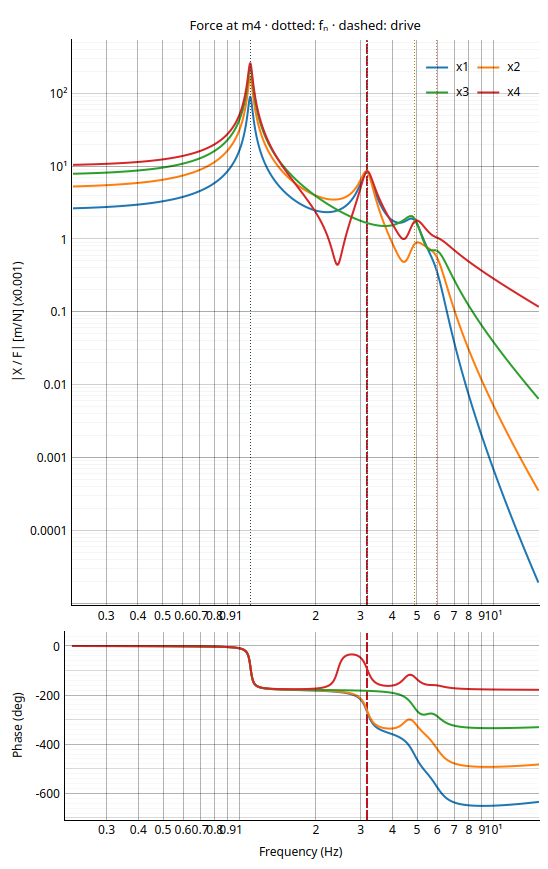
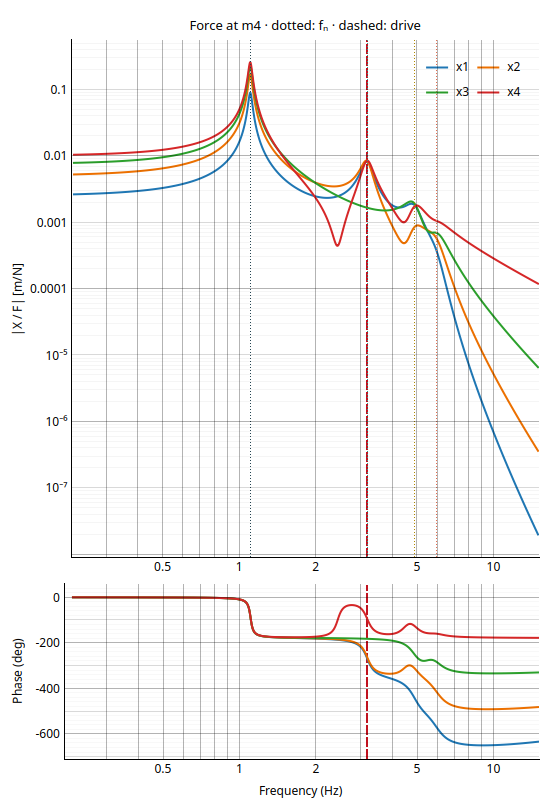
Readable log axes everywhere; README: drive-point FRF, modal_coupling module, fresh screenshots
- gui/axes.py: LogAxis labels every log tick only when they fit, else 1-2-5
  per decade, else only the decades, from the pixels per decade at each
  redraw (so zooming stays readable). It drops the minor ticks that repeat a
  decade (drawn twice they looked bold), and turns off the automatic SI
  prefix that scaled log labels and appended a misleading "(x0.001)".
- Used by the Simulation FRF, CMS FRF and error plots, both Modal coupling
  plots and the virtual test's magnitude. The veering plot's hard-coded ticks
  are gone.
- README: the Drive-point FRF tab, core/modal_coupling.py in the code layout
  and a scripting example; frequency_response.png and modal_coupling.png
  retaken.

Claude-Session: https://claude.ai/code/session_017R5NSXURS9H71mvfW1Frcg

diff --git a/src/vib_tutorial/gui/axes.py b/src/vib_tutorial/gui/axes.py
@@ -1,0 +1,80 @@
+"""A log axis whose labels do not run into each other.
+
+pyqtgraph labels every minor tick (2, 3, ... 9 x 10^e) on a log axis spanning
+less than about three decades, so on a narrow plot they overlap ("0.60.70.8").
+LogAxis draws every tick but labels all of them only when they fit, else 1,
+2 and 5 of each decade, else only the decades, chosen from the pixels per
+decade at each redraw (so it stays readable while zooming). It also turns off pyqtgraph's automatic
+SI prefix in log mode, which scales the labels and appends a confusing
+"(x0.001)" to the axis title.
+"""
+
+from __future__ import annotations
+
+import math
+
+import pyqtgraph as pg
+from PySide6 import QtGui
+
+# Labelled mantissas, the first set that fits: every tick, then 1, 2 and 5, then only the decades.
+TIERS = (tuple(range(1, 10)), (1, 2, 5), (1,))
+SUPERSCRIPT = str.maketrans("-0123456789", "⁻⁰¹²³⁴⁵⁶⁷⁸⁹")
+
+
+def log_label(value: float) -> str:
+    """0.0001 ... 9999 as plain numbers; smaller or larger as m·10ⁿ."""
+    e = math.floor(math.log10(value) + 1e-9)
+    if -4 <= e <= 3:
+        return f"{value:.4g}"
+    m = round(value / 10.0**e)
+    if m == 10:
+        m, e = 1, e + 1
+    power = f"10{str(e).translate(SUPERSCRIPT)}"
+    return power if m == 1 else f"{m}·{power}"
+
+
+class LogAxis(pg.AxisItem):
+    """An AxisItem that behaves as usual in linear mode and labels sparsely in log mode."""
+
+    def __init__(self, orientation: str, **kwargs) -> None:
+        super().__init__(orientation, **kwargs)
+        self._px_per_decade = math.inf
+
+    def setLogMode(self, *args, **kwargs) -> None:  # noqa: N802 (Qt-style override)
+        super().setLogMode(*args, **kwargs)
+        self.enableAutoSIPrefix(not self.logMode)
+
+    def logTickValues(self, minVal, maxVal, size, stdTicks):  # noqa: N802, N803 (pyqtgraph API)
+        span = maxVal - minVal
+        self._px_per_decade = size / span if span > 0 else math.inf
+        levels = super().logTickValues(minVal, maxVal, size, stdTicks)
+        # The minor level repeats the decades of the major levels: drawn twice, their labels look bold.
+        major = {round(v, 9) for spacing, values in levels if spacing is not None for v in values}
+        return [(spacing, values if spacing is not None else [v for v in values if round(v, 9) not in major])
+                for spacing, values in levels]
+
+    def logTickStrings(self, values, scale, spacing):  # noqa: N802 (pyqtgraph API)
+        labelled = next((t for t in TIERS if self._room_for(t)), (1,))
+        out = []
+        for x in values:
+            v = 10.0**x * scale
+            e = math.floor(x + 1e-9)
+            m = round(10.0 ** (x - e))
+            out.append(log_label(v) if m in labelled or m == 10 else "")
+        return out
+
+    def _room_for(self, mantissas: tuple[int, ...]) -> bool:
+        """Whether labels at these mantissas fit: the closest pair is log10(2) (or 10/5) apart."""
+        font = self.style.get("tickFont") or QtGui.QFont()
+        metrics = QtGui.QFontMetrics(font)
+        if self.orientation in ("left", "right"):
+            need = 1.6 * metrics.height()
+        else:
+            need = metrics.horizontalAdvance("0.005") + 10
+        gap = min(math.log10(b / a) for a, b in zip(mantissas, (*mantissas[1:], 10)))
+        return gap * self._px_per_decade >= need
+
+
+def log_axes() -> dict[str, LogAxis]:
+    """Left and bottom axes for a plot with a log axis: pass as axisItems to addPlot or PlotWidget."""
+    return {"left": LogAxis("left"), "bottom": LogAxis("bottom")}

diff --git a/src/vib_tutorial/gui/modal_coupling.py b/src/vib_tutorial/gui/modal_coupling.py
@@ -35,8 +35,8 @@ from ..core.modal_coupling import (
     sweep,
 )
 from .animation import MASS_WIDTH, spring_path
+from .axes import log_axes
 from .coupling_notes import THEORY_HTML, matrices_html
-from .frf_matrix import log_ticks
 from .style import MAX_DOF, colors, text_on
 from .substructuring import error_color, zeta_text
 from .theming import mute
@@ -289,7 +289,7 @@ class VeeringPlot(QtWidgets.QWidget):
         top.addWidget(label)
         top.addWidget(self.kind)
         top.addStretch(1)
-        self.plot = pg.PlotWidget()
+        self.plot = pg.PlotWidget(axisItems=log_axes())
         self.plot.setLogMode(x=True, y=True)
         self.plot.showGrid(x=True, y=True, alpha=0.3)
         self.plot.setLabel("left", "Natural frequency", units="Hz")
@@ -345,7 +345,6 @@ class VeeringPlot(QtWidgets.QWidget):
         bottom = max(min(s.two_dof.min(), s.f_a.min()), 1e-9) / 1.4
         self.plot.setYRange(math.log10(bottom), math.log10(top), padding=0)
         self.plot.setXRange(math.log10(s.x[0]), math.log10(s.x[-1]), padding=0)
-        self.plot.getAxis("bottom").setTicks(log_ticks(s.x[0], s.x[-1], (1, 2, 5)))
         if kind == "frequency":
             self.plot.setLabel("bottom", "f_B / f_A (B's springs scaled)")
             self.plot.setTitle(f"μ = {model.mass_ratio:.3g} fixed", size="10pt")
@@ -457,7 +456,7 @@ class DrivePointFrf(QtWidgets.QWidget):
         top.addWidget(label)
         top.addWidget(self.point)
         top.addStretch(1)
-        self.plot = pg.PlotWidget()
+        self.plot = pg.PlotWidget(axisItems=log_axes())
         self.plot.setLogMode(x=True, y=True)
         self.plot.showGrid(x=True, y=True, alpha=0.3)
         self.plot.setLabel("left", "|X / F|  [m/N]")

diff --git a/src/vib_tutorial/gui/substructuring.py b/src/vib_tutorial/gui/substructuring.py
@@ -35,6 +35,7 @@ from ..core import (
 )
 from ..core.substructure import METHOD_SHORT, SUBSTRUCTURE_NAMES
 from .animation import MASS_WIDTH, spring_path
+from .axes import log_axes
 from .cms_notes import THEORY_HTML, matrices_html
 from .cms_recovery import BackExpansionView
 from .cms_time import CMSTimeView
@@ -334,7 +335,7 @@ class ComparisonPlots(pg.GraphicsLayoutWidget):
         self.shape.setYRange(-1.15, 1.5, padding=0)
         self.shape.getAxis("left").setTicks([[(v, f"{v:g}") for v in (-1, -0.5, 0, 0.5, 1)]])
         self.shape_legend = self.shape.addLegend(offset=(5, 2), colCount=3)
-        self.frf = self.addPlot(row=1, col=0)
+        self.frf = self.addPlot(row=1, col=0, axisItems=log_axes())
         self.frf.setLogMode(x=True, y=True)
         self.frf.setLabel("left", "|X / F|  [m/N]")
         self.frf.setLabel("bottom", "Frequency", units="Hz")
@@ -613,7 +614,7 @@ class MethodComparison(QtWidgets.QWidget):
         self.table.setEditTriggers(QtWidgets.QAbstractItemView.EditTrigger.NoEditTriggers)
         self.table.setSelectionMode(QtWidgets.QAbstractItemView.SelectionMode.NoSelection)
         self.table.horizontalHeader().setSectionResizeMode(QtWidgets.QHeaderView.ResizeMode.Stretch)
-        self.plot = pg.PlotWidget()
+        self.plot = pg.PlotWidget(axisItems=log_axes())
         self.plot.setLogMode(y=True)
         self.plot.showGrid(x=True, y=True, alpha=0.3)
         self.plot.setLabel("bottom", "Reduced-model coordinates (modes kept + boundary DOFs)")

diff --git a/tests/test_gui_smoke.py b/tests/test_gui_smoke.py
@@ -1199,3 +1199,30 @@ def test_modal_coupling_page(app):
     assert page.model is not None
     w.pages.setCurrentWidget(w.sim_page)
     w.close()
+
+
+def test_log_axis_labels(app):
+    import math
+
+    from vib_tutorial.gui.axes import LogAxis, log_label
+
+    assert [log_label(v) for v in (1e-5, 3e-5, 1e-4, 0.05, 1.0, 20.0, 1000.0, 1e4, 2e6)] == [
+        "10⁻⁵", "3·10⁻⁵", "0.0001", "0.05", "1", "20", "1000", "10⁴", "2·10⁶"]
+    values = [math.log10(m * 0.1) for m in range(1, 10)] + [0.0]
+    for orientation in ("left", "bottom"):
+        axis = LogAxis(orientation)
+        axis.setLogMode(True)
+        assert not axis.autoSIPrefix
+        labelled = {}
+        for px in (2000.0, 250.0, 20.0):  # pixels per decade: room for all, for 1-2-5, for the decades only
+            axis._px_per_decade = px
+            labelled[px] = [s for s in axis.logTickStrings(values, 1.0, None) if s]
+        assert labelled[2000.0] == ["0.1", "0.2", "0.3", "0.4", "0.5", "0.6", "0.7", "0.8", "0.9", "1"]
+        assert labelled[250.0] == ["0.1", "0.2", "0.5", "1"]
+        assert labelled[20.0] == ["0.1", "1"]
+    # The minor level does not repeat the decades of a major level.
+    axis = LogAxis("left")
+    axis.setLogMode(True)
+    levels = axis.logTickValues(-2.2, 0.3, 300, [(1.0, [-2.0, -1.0, 0.0])])
+    minor = next(v for s, v in levels if s is None)
+    assert not {round(v, 9) for v in minor} & {-2.0, -1.0, 0.0}

diff --git a/src/vib_tutorial/gui/plots.py b/src/vib_tutorial/gui/plots.py
@@ -9,6 +9,7 @@ import pyqtgraph as pg
 from PySide6 import QtCore, QtGui, QtWidgets
 
 from ..core import ChainSystem, ModalResult, frf, modal_analysis, transmissibility
+from .axes import log_axes
 from .modes import Method, ModeEntry, time_constant_text
 from .style import colors
 
@@ -450,12 +451,12 @@ class FrfPlot(pg.GraphicsLayoutWidget):
 
     def __init__(self, parent: QtWidgets.QWidget | None = None) -> None:
         super().__init__(parent)
-        self.mag = self.addPlot(row=0, col=0)
+        self.mag = self.addPlot(row=0, col=0, axisItems=log_axes())
         self.mag.setLogMode(x=True, y=True)
         self.mag.setLabel("left", "|X / F|  [m/N]")
         self.mag.showGrid(x=True, y=True, alpha=0.3)
         self.mag.addLegend(offset=(-5, 5), colCount=2)
-        self.phase = self.addPlot(row=1, col=0)
+        self.phase = self.addPlot(row=1, col=0, axisItems=log_axes())
         self.phase.setLogMode(x=True, y=False)
         self.phase.setLabel("left", "Phase", units="deg")
         self.phase.setLabel("bottom", "Frequency", units="Hz")

diff --git a/src/vib_tutorial/gui/modal_test.py b/src/vib_tutorial/gui/modal_test.py
@@ -47,6 +47,7 @@ from ..core.identification import (
     peak_picking,
 )
 from ..core.measurement import AA_CUTOFF
+from .axes import log_axes
 from .modal_extraction import EXTRACTION_THEORY_HTML, ExtractionControls, ResultsView, StabilizationPlot
 from .panels import spin
 from .style import MAX_DOF, colors
@@ -237,10 +238,9 @@ class FrfView(pg.GraphicsLayoutWidget):
 
     def __init__(self, parent: QtWidgets.QWidget | None = None) -> None:
         super().__init__(parent)
-        self.mag = self.addPlot(row=0, col=0)
+        self.mag = self.addPlot(row=0, col=0, axisItems=log_axes())
         self.mag.setLogMode(x=False, y=True)
         self.mag.setLabel("left", "|H|  [m/N]")
-        self.mag.getAxis("left").enableAutoSIPrefix(False)
         self.mag.addLegend(offset=(-5, 5))
         self.phase = self.addPlot(row=1, col=0)
         self.phase.setLabel("left", "Phase", units="deg")

diff --git a/README.md b/README.md
@@ -371,9 +371,11 @@ The oscillator masses are the masses the joint feels:
 
 With these choices the 2-DOF model is a Rayleigh–Ritz model of the chain (B's part is
 Craig–Bampton with one mode kept), so its two frequencies are upper bounds of the chain's lowest
-two. The page compares them with the chain's (frequency, exact damping ratio, MAC), draws the
-2-DOF modes on the chain, and compares the receptance at the interface. Any mode of A can be
-coupled with any mode of B. *Matrices (step by step)* works both masses through with the current
+two. The page compares them with the chain's (frequency, exact damping ratio, MAC) and draws the
+2-DOF modes on the chain. Any mode of A can be coupled with any mode of B. The *Drive-point FRF*
+tab compares the receptance of the chain and of the 2-DOF model at the interface (A's tip) or at
+the free end (B's tip, where a force is usually applied), with A alone (B removed) and B alone
+(A removed, its base on the ground) for reference. *Matrices (step by step)* works both masses through with the current
 numbers: the generalized mass and mass normalization (why 1/φ<sub>tip</sub>² is a mass), the
 influence vector **r** solved from a unit base motion, each mode projected on how the joint loads it
 (a point load **e**<sub>tip</sub> on A, the inertia M**r** on B), the 2-DOF matrices, and the
@@ -540,6 +542,9 @@ $w_k^T W w_k$, so the energy balance closes to rounding error.
   modes (MAC).
 - `core/substructure.py`: component mode synthesis (Craig–Bampton, Rubin, MacNeal), mode
   comparison (frequency error, MAC) and the reduced-model FRF.
+- `core/modal_coupling.py`: two subsystems reduced to one oscillator each and joined as a 2-DOF
+  model (effective, residual and tip modal masses), its comparison with the chain, the
+  drive-point FRFs, and the frequency and mass-ratio sweeps.
 - `core/cms_response.py`: the full chain and a reduced model stepped side by side under the
   same force (MacNeal's massless boundary condensed statically).
 - `core/back_expansion.py`: recovery of the interior DOFs from the coupled solution (by T,
@@ -548,7 +553,8 @@ $w_k^T W w_k$, so the energy balance closes to rounding error.
 - `gui/`: the PySide6 and pyqtgraph interface. It runs on a ~60 fps timer that advances
   the simulator by wall-clock time × speed. `gui/style.py` holds the colour themes; every
   widget reads its colours from the current one (`colors.mass[i]`, `colors.force`) and
-  redraws in a new one through its `apply_theme()`.
+  redraws in a new one through its `apply_theme()`. Log axes use `gui/axes.py`, which labels
+  only as many ticks as fit.
 
 The `core` package has no Qt dependency, so you can use it from scripts or notebooks:
 
@@ -598,6 +604,14 @@ from vib_tutorial.core import compare_modes, craig_bampton
 s = ChainSystem.uniform(8)
 cb = craig_bampton(s, interfaces=[3], n_kept=[1, 1])          # cut at m4, 1 mode each
 [(c.fn_true, c.fn_red, c.mac) for c in compare_modes(cb, modal_analysis(s))]
+
+from vib_tutorial.core import compare_coupled, coupled_model
+from vib_tutorial.core.modal_coupling import coupled_frf, sweep
+
+pair = coupled_model(chain, split=2)                           # A = m1-m2, B = m3-m4, mode 1 of each
+[(c.fn, c.fn_full, c.error) for c in compare_coupled(pair, res)]  # 2-DOF vs chain
+coupled_frf(pair, np.array([1.0, 2.0]), "free")               # x4 / F4 of the 2-DOF model
+sweep(pair, "mass").two_dof                                    # (points, 2) Hz as mu is swept
 
 from vib_tutorial.core import free_interface
 from vib_tutorial.core.cms_response import CMSResponse
